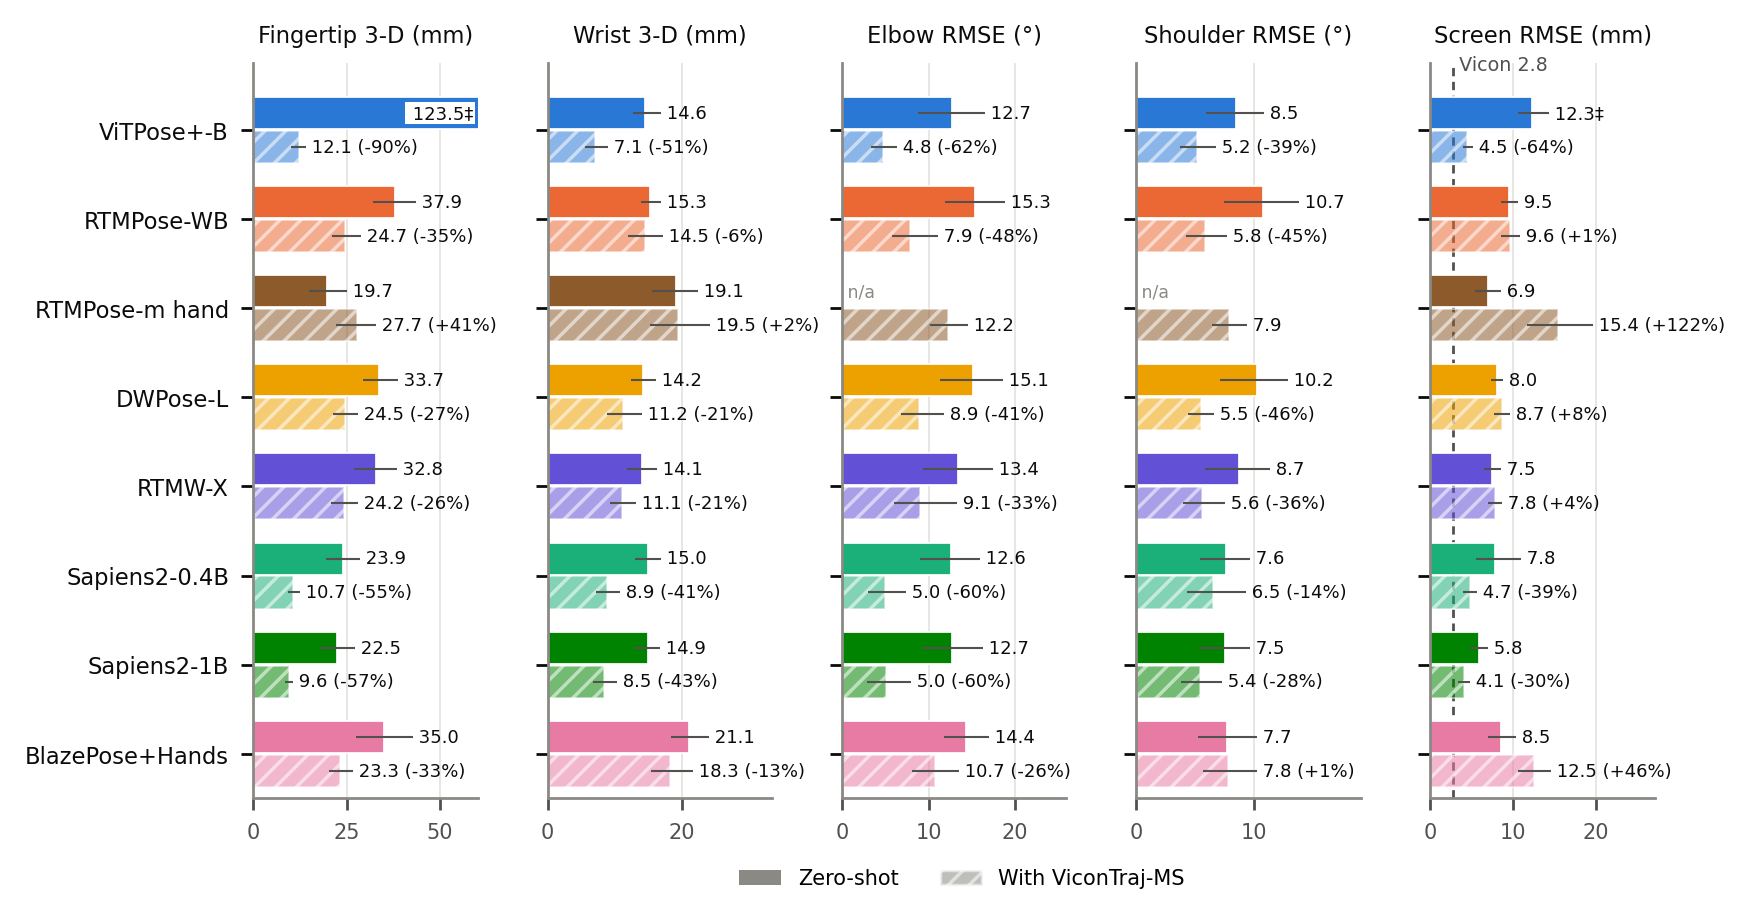
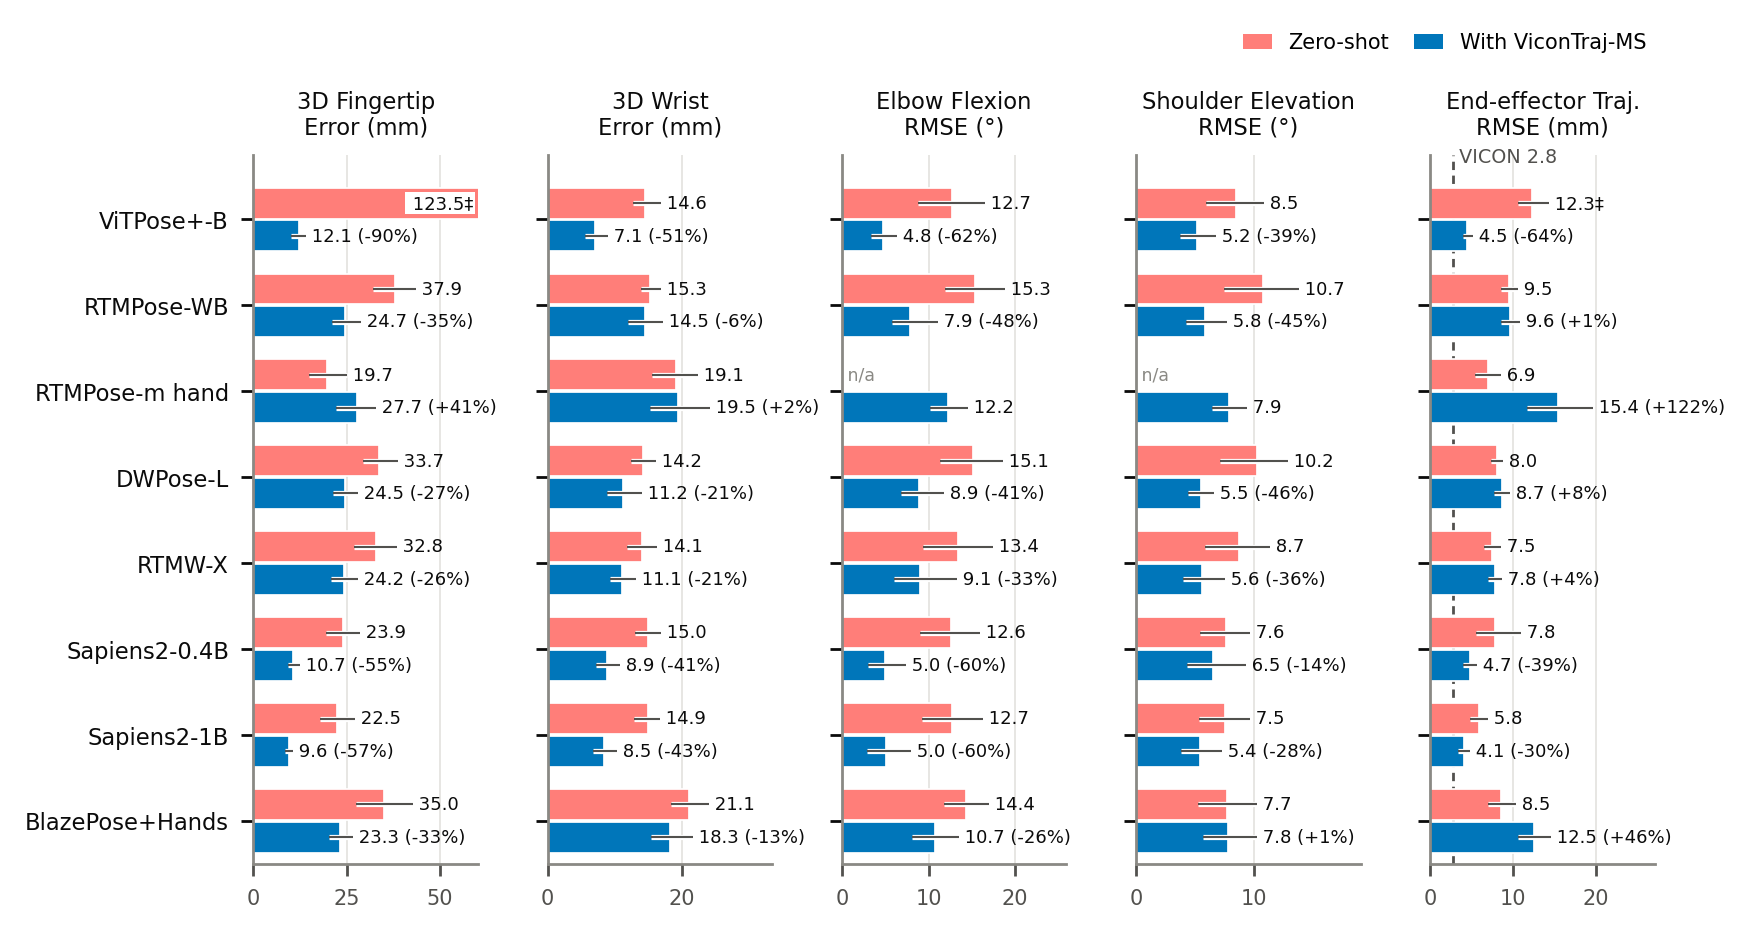
Update the alignment and results figures
Alignment figure: clocks of one VICON recording first, then the residual timing
error, then the trial on the screen; larger text; screen y now points up, as
on the iPad. Results figure: two colours (zero-shot, with ViconTraj-MS),
two-line column titles, legend at the top right.

diff --git a/analysis/make_results.py b/analysis/make_results.py
@@ -29,10 +29,9 @@ DOC = ROOT / "outputs" / "paper"
 TAB, FIG = DOC / "tables", DOC / "fig"
 INK, INK2, INK3, GRID = "#0b0b0b", "#52514e", "#8a8984", "#e4e3df"
 SLOT = ["#2a78d6", "#eb6834", "#1baf7a", "#eda100", "#e87ba4", "#008300"]
-# zero-shot models, and one colour per model
+# zero-shot models; results figure: light red zero-shot, dark blue with ViconTraj-MS
 ZS = ["vitpose_b", "rtmpose_wb", "rtmpose_hand", "dwpose_l", "rtmw_x", "sapiens2_0.4b", "sapiens2_1b", "blazepose"]
-MCOL = {"vitpose_b": "#2a78d6", "rtmpose_wb": "#eb6834", "rtmpose_hand": "#8c5a2b", "dwpose_l": "#eda100", "rtmw_x": "#6250d6",
-        "sapiens2_0.4b": "#1baf7a", "sapiens2_1b": "#008300", "blazepose": "#e87ba4"}
+ZS_COL, FT_COL = "#ff7e79", "#0076ba"
 LAB = {"vitpose_b": "ViTPose+-B", "vitpose_l": "ViTPose+-L", "vitpose_h": "ViTPose+-H", "rtmpose_wb": "RTMPose-WB", "dwpose_l": "DWPose-L",
        "rtmw_x": "RTMW-X", "rtmpose_hand": "RTMPose-m hand", "sapiens2_0.4b": "Sapiens2-0.4B", "sapiens2_1b": "Sapiens2-1B",
        "blazepose": "BlazePose+Hands", "ft_b_head_top": "head, top", "ft_b_head_side": "head, side", "ft_b_head_pooled": "head, both views",
@@ -674,61 +673,64 @@ def fig_zs_ft(q1, q2, ang):
     pairs = [(v, best_with(q2, v)) for v in ZS]
     scr = {v: (None if v.startswith("vitpose") else f"{MODEL_LABEL[v]}, 2 views") for v in ZS}
     scr.update({w: MODEL_LABEL[w] + ", 2 views" for _, w in pairs if w})
-    panels = [("Fingertip 3-D (mm)", q2[q2.joint == "fingertip"].set_index("variant")[["median_mm", "median_ci_lo", "median_ci_hi"]]),
-              ("Wrist 3-D (mm)", q2[q2.joint == "wrist"].set_index("variant")[["median_mm", "median_ci_lo", "median_ci_hi"]]),
-              ("Elbow RMSE (\u00b0)", qa[qa.angle == "elbow_flexion"].set_index("source")[["rmse_deg", "rmse_ci_lo", "rmse_ci_hi"]]),
-              ("Shoulder RMSE (\u00b0)", qa[qa.angle == "shoulder_elevation"].set_index("source")[["rmse_deg", "rmse_ci_lo", "rmse_ci_hi"]]),
-              ("Screen RMSE (mm)", e3.rename(index={v: k for k, v in scr.items() if v})[["rmse_mm", "rmse_ci_lo", "rmse_ci_hi"]])]
+    # (key, title, table); the fingertip and trajectory panels score the wrist of ViTPose+-B zero-shot
+    panels = [("fingertip", "3D Fingertip\nError (mm)", q2[q2.joint == "fingertip"].set_index("variant")[["median_mm", "median_ci_lo", "median_ci_hi"]]),
+              ("wrist", "3D Wrist\nError (mm)", q2[q2.joint == "wrist"].set_index("variant")[["median_mm", "median_ci_lo", "median_ci_hi"]]),
+              ("elbow", "Elbow Flexion\nRMSE (\u00b0)", qa[qa.angle == "elbow_flexion"].set_index("source")[["rmse_deg", "rmse_ci_lo", "rmse_ci_hi"]]),
+              ("shoulder", "Shoulder Elevation\nRMSE (\u00b0)", qa[qa.angle == "shoulder_elevation"].set_index("source")[["rmse_deg", "rmse_ci_lo", "rmse_ci_hi"]]),
+              ("traj", "End-effector Traj.\nRMSE (mm)", e3.rename(index={v: k for k, v in scr.items() if v})[["rmse_mm", "rmse_ci_lo", "rmse_ci_hi"]])]
     shown = [n for pr in pairs for n in pr if n]
     wf = wrist_as_fingertip("vitpose_b")
-    panels[0][1].loc["vitpose_b"] = wf[:3]                                       # wrist as the fingertip, marked
-    panels[4][1].loc["vitpose_b"] = e3.loc["ViTPose+-B wrist, 2 views"][["rmse_mm", "rmse_ci_lo", "rmse_ci_hi"]].values
+    panels[0][2].loc["vitpose_b"] = wf[:3]                                       # wrist as the fingertip, marked
+    panels[4][2].loc["vitpose_b"] = e3.loc["ViTPose+-B wrist, 2 views"][["rmse_mm", "rmse_ci_lo", "rmse_ci_hi"]].values
     macro("zsVitWristAsTipThreeD", f1(wf[0]))
     macro("zsVitWristAsTipCiLo", f1(wf[1]))
     macro("zsVitWristAsTipCiHi", f1(wf[2]))
-    fig, axes = plt.subplots(1, 5, figsize=(7.0, 3.6), sharey=True)
+    fig, axes = plt.subplots(1, 5, figsize=(7.0, 3.65), sharey=True)
     y_zs = {v: 1.0 * i for i, v in enumerate(ZS)}
     vicon_screen = e3.loc["Vicon FIN"]
-    for ax, (title, w) in zip(axes, panels):
+    for ax, (key, title, w) in zip(axes, panels):
         w = w.copy()
         w.columns = ["v", "lo", "hi"]
-        if title.startswith("Screen"):
+        if key == "traj":
             ax.axvline(vicon_screen.rmse_mm, color=INK2, lw=0.8, ls=(0, (3, 2)), zorder=0)
-            ax.text(vicon_screen.rmse_mm, -0.62, f" Vicon {vicon_screen.rmse_mm:.1f}", fontsize=5.5, color=INK2, va="bottom", ha="left")
+            ax.text(vicon_screen.rmse_mm, -0.62, f" VICON {vicon_screen.rmse_mm:.1f}", fontsize=5.5, color=INK2, va="bottom", ha="left")
         for v, b in pairs:
-            for k, (name, dy, alpha, hatch) in enumerate(((v, -0.19, 1.0, None), (b, 0.19, 0.55, "////"))):
+            for k, (name, dy, col) in enumerate(((v, -0.19, ZS_COL), (b, 0.19, FT_COL))):
                 if name is None or name not in w.index or not np.isfinite(w.v.get(name, np.nan)):
-                    if k == 0 and name in w.index or (k == 0 and name not in w.index):
+                    if k == 0:
                         ax.text(0, y_zs[v] + dy, " n/a", va="center", fontsize=5, color=INK3)
                     continue
                 r = w.loc[name]
-                ax.barh(y_zs[v] + dy, r.v, height=0.36, color=MCOL[v], alpha=alpha, hatch=hatch, edgecolor="white", linewidth=0.5)
-                ax.errorbar(r.v, y_zs[v] + dy, xerr=[[r.v - r.lo], [r.hi - r.v]], fmt="none", ecolor=INK2, elinewidth=0.6)
+                ax.barh(y_zs[v] + dy, r.v, height=0.36, color=col, edgecolor="white", linewidth=0.5)
+                for ec, lw in (("white", 1.5), (INK2, 0.6)):                       # white edge: the whisker shows on both colours
+                    ax.errorbar(r.v, y_zs[v] + dy, xerr=[[r.v - r.lo], [r.hi - r.v]], fmt="none", ecolor=ec, elinewidth=lw)
                 lab = f" {r.v:.1f}"
-                if k == 0 and v == "vitpose_b" and title.split()[0] in ("Fingertip", "Screen"):
+                if k == 0 and v == "vitpose_b" and key in ("fingertip", "traj"):
                     lab += "\u2021"                                                     # wrist used as the fingertip
                 if k == 1 and v in w.index and np.isfinite(w.v.get(v, np.nan)):
                     lab += f" ({(r.v / w.v[v] - 1) * 100:+.0f}%)"
                 ax.text(r.hi, y_zs[v] + dy, lab, va="center", fontsize=5.2, color=INK)
-        keep = [n for n in shown if n in w.index and not (n == "vitpose_b" and title.startswith("Fingertip"))]
+        keep = [n for n in shown if n in w.index and not (n == "vitpose_b" and key == "fingertip")]
         xmax = np.nanmax(w.hi.reindex(keep).values) * 1.38
         ax.set_xlim(0, xmax)
         # the wrist-as-fingertip bar runs off the axis
-        if title.startswith("Fingertip") and "vitpose_b" in w.index:
+        if key == "fingertip" and "vitpose_b" in w.index:
             for t in ax.texts:
                 if t.get_text().endswith("\u2021") and t.get_position()[1] == y_zs["vitpose_b"] - 0.19:
                     t.set_x(xmax * 0.98)
                     t.set_ha("right")
                     t.set_bbox(dict(facecolor="white", lw=0, pad=0.5))
-        ax.set_title(title, fontsize=6.5)
+        ax.set_title(title, fontsize=6.5, linespacing=1.15)
         ax.grid(axis="y", visible=False)
         ax.set_ylim(len(ZS) - 0.5, -0.75)
     axes[0].set_yticks([y_zs[v] for v in ZS])
     axes[0].set_yticklabels([FIGLAB[v] for v in ZS])
-    hs = [plt.Rectangle((0, 0), 1, 1, facecolor=INK3, label="Zero-shot"),
-          plt.Rectangle((0, 0), 1, 1, facecolor=INK3, alpha=0.55, hatch="////", edgecolor="white", label="With ViconTraj-MS")]
-    fig.legend(handles=hs, loc="lower center", ncol=2, fontsize=6, bbox_to_anchor=(0.55, -0.01))
-    fig.tight_layout(w_pad=0.5, rect=(0, 0.03, 1, 1))
+    fig.tight_layout(w_pad=0.5, rect=(0, 0, 1, 0.955))
+    hs = [plt.Rectangle((0, 0), 1, 1, facecolor=ZS_COL, label="Zero-shot"),
+          plt.Rectangle((0, 0), 1, 1, facecolor=FT_COL, label="With ViconTraj-MS")]
+    fig.legend(handles=hs, loc="upper right", ncol=2, fontsize=6, bbox_to_anchor=(axes[-1].get_position().x1, 1.0), borderaxespad=0,
+               handlelength=1.4, columnspacing=1.2)                              # top right, flush with the last panel
     save(fig, "results_zs_ft")
 
 

diff --git a/analysis/make_fig_dataset.py b/analysis/make_fig_dataset.py
@@ -1,10 +1,11 @@
 """Bottom row of Figure 1 and Figure 2 (alignment) of the paper, from the benchmark outputs.
 
 fig/streams_moment.pdf: one test trial (--pid study ID, --row aligned_mat_row) at one moment in VICON 3D, the top and
-the side video, with the zero-shot Sapiens2-1B keypoints and their errors. fig/alignment.pdf: (a) the trial on the
-screen, (b) the three clocks of its visit aligned from motion, (c) the residual timing error of every valid trial.
+the side video, with the zero-shot Sapiens2-1B keypoints and their errors. fig/alignment.pdf: (a) the three clocks
+aligned from motion over one VICON recording of the same participant whose four trials are valid in every stream
+(--clock-visit, --clock-round), (b) the residual timing error of every valid trial, (c) the trial on the screen.
 
-    HF_HUB_OFFLINE=1 python analysis/make_fig_dataset.py [--pid XXXXXXX110 --row 14]
+    HF_HUB_OFFLINE=1 python analysis/make_fig_dataset.py [--pid XXXXXXX110 --row 14] [--only-alignment]
 """
 import argparse
 import sys
@@ -49,14 +50,18 @@ def camera_view(P):
 
 def residual_panel(ax, m):
     bins = np.arange(0, 105, 5)
-    for i, (col, flag, lab) in enumerate((("vicon_align_err_s", "vicon_valid", "Vicon–game"), ("top_align_err_s", "top_valid", "top video–game"),
+    for i, (col, flag, lab) in enumerate((("vicon_align_err_s", "vicon_valid", "VICON–game"), ("top_align_err_s", "top_valid", "top video–game"),
                                           ("side_align_err_s", "side_valid", "side video–game"))):
         e = np.clip(m.loc[m[flag], col].dropna() * 1000, 0, 100)
-        ax.hist(e, bins=bins, histtype="step", lw=1.3, color=SLOT[i], label=f"{lab} (median {np.median(e):.0f} ms)")
+        ax.hist(e, bins=bins, histtype="step", lw=1.3, color=SLOT[i], label=f"{lab} ({np.median(e):.0f} ms)")
     ax.set_xlabel("residual timing error of a trial (ms)")
     ax.set_ylabel("trials")
-    ax.legend(loc="upper right", handlelength=1.4)
+    ax.legend(loc="upper right", handlelength=1.4, title="median", title_fontsize=plt.rcParams["legend.fontsize"],
+              borderaxespad=0.2)
     ax.set_xlim(0, 100)
+    ax.set_ylim(0, 320)                                  # room above the bars for the legend
+    ax.set_yticks(range(0, 201, 50))
+    ax.spines["left"].set_bounds(0, 200)
 
 
 def fig_moment(r, cams, blur, moment=0.5):
@@ -102,24 +107,38 @@ def pd_round(rec):
     return [{k: (round(v, 1) if isinstance(v, float) else v) for k, v in d.items()} for d in rec]
 
 
-def fig_alignment(r, m, cams):
-    fig = plt.figure(figsize=(7.1, 2.35))
-    gs = fig.add_gridspec(1, 3, left=0.045, right=0.99, top=0.88, bottom=0.2, wspace=0.3, width_ratios=(0.9, 1.75, 1.0))
-    ax = fig.add_subplot(gs[0, 0])
-    t, xy, paths, scale = screen_paths(r, cams, MODEL)
-    draw_screen(ax, t, xy, paths, scale, r, video_name=f"video ({MODEL_LABEL[MODEL]})")
-    ax.legend(loc="upper left", bbox_to_anchor=(-0.08, -0.3), ncol=1, handlelength=1.2, labelspacing=0.2)
-    ax.set_title("a", loc="left", fontweight="bold", fontsize=8)
-    ax = fig.add_subplot(gs[0, 1])
-    trial_rows = m[(m.pid == r.pid) & (m.visit == r.visit) & (m.trial_in_visit == r.trial_in_visit)].aligned_mat_row.astype(int).tolist()
-    draw_alignment(ax, *alignment_traces(r.pid, int(r.visit), "top", trial_rows))
-    ax.set_title("b", loc="left", fontweight="bold", fontsize=8)
-    ax = fig.add_subplot(gs[0, 2])
-    residual_panel(ax, m)
-    ax.set_title("c", loc="left", fontweight="bold", fontsize=8)
-    for ext in ("pdf", "png"):
-        fig.savefig(FIG / f"alignment.{ext}", dpi=250, bbox_inches="tight")
-    plt.close(fig)
+FIG2_FONTS = {"font.size": 8, "axes.labelsize": 8, "xtick.labelsize": 7.5, "ytick.labelsize": 7.5, "legend.fontsize": 7.5}
+
+
+def fig_alignment(r, m, cams, clock_visit, clock_round):
+    """(a) the three clocks over VICON recording clock_round of visit clock_visit, (b) the residual timing error of every
+    valid trial, (c) the trial r on the screen."""
+    with plt.rc_context(FIG2_FONTS):
+        fig = plt.figure(figsize=(7.1, 2.75))
+        gs = fig.add_gridspec(1, 3, left=0.045, right=0.99, top=0.88, bottom=0.2, wspace=0.34, width_ratios=(1.6, 1.1, 0.9))
+        ax_clock = fig.add_subplot(gs[0, 0])
+        rows = m[(m.pid == r.pid) & (m.visit == clock_visit) & (m.trial_in_visit == clock_round)]
+        draw_alignment(ax_clock, *alignment_traces(r.pid, clock_visit, "top", rows.aligned_mat_row.astype(int).tolist()),
+                       label_fs=7.5, short=True)
+        ax_res = fig.add_subplot(gs[0, 1])
+        residual_panel(ax_res, m)
+        ax_scr = fig.add_subplot(gs[0, 2])
+        t, xy, paths, scale = screen_paths(r, cams, MODEL)
+        draw_screen(ax_scr, t, xy, paths, scale, r, video_name=f"video ({MODEL_LABEL[MODEL]})")
+        ax_scr.set_anchor("S")                           # plot at the bottom of its cell, legend in the space above
+        fig.canvas.draw()
+        pos = ax_scr.get_position()
+        ax_scr.legend(loc="lower left", bbox_to_anchor=(pos.x0 - 0.045, pos.y1 + 0.05), bbox_transform=fig.transFigure,
+                      ncol=1, handlelength=1.2, labelspacing=0.2, borderaxespad=0)
+        # panel letters on one line above the panels: (a) at its axes, (b) and (c) at the left edge of the panel
+        fig.canvas.draw()
+        to_fig = fig.transFigure.inverted()
+        left = lambda ax: to_fig.transform(ax.get_tightbbox(fig.canvas.get_renderer()))[0, 0]   # noqa: E731
+        for ax, lab, x in ((ax_clock, "a", ax_clock.get_position().x0), (ax_res, "b", left(ax_res)), (ax_scr, "c", left(ax_scr))):
+            fig.text(x, 0.905, lab, fontweight="bold", fontsize=9, ha="left", va="bottom")
+        for ext in ("pdf", "png"):
+            fig.savefig(FIG / f"alignment.{ext}", dpi=250, bbox_inches="tight")
+        plt.close(fig)
     print("wrote", FIG / "alignment.pdf")
 
 
@@ -129,16 +148,19 @@ def main():
     ap.add_argument("--row", type=int, default=14, help="aligned_mat_row of the trial")
     ap.add_argument("--moment", type=float, default=0.5, help="fraction of the trial for fig/streams_moment.pdf")
     ap.add_argument("--only-moment", action="store_true", help="write only fig/streams_moment.pdf")
+    ap.add_argument("--only-alignment", action="store_true", help="write only fig/alignment.pdf")
+    ap.add_argument("--clock-visit", type=int, default=2, help="visit of the VICON recording in panel (a) of fig/alignment.pdf")
+    ap.add_argument("--clock-round", type=int, default=3, help="VICON recording (round of trials) of that visit in panel (a)")
     args = ap.parse_args()
     FIG.mkdir(parents=True, exist_ok=True)
     style()
     m = manifest()
     r = m[(m.pid == args.pid) & (m.aligned_mat_row == args.row)].iloc[0]
     cams, blur = cameras(), FaceBlur()
-    fig_moment(r, cams, blur, args.moment)
-    if args.only_moment:
-        return
-    fig_alignment(r, m, cams)
+    if not args.only_alignment:
+        fig_moment(r, cams, blur, args.moment)
+    if not args.only_moment:
+        fig_alignment(r, m, cams, args.clock_visit, args.clock_round)
 
 
 if __name__ == "__main__":

diff --git a/analysis/alignment_panels.py b/analysis/alignment_panels.py
@@ -68,12 +68,12 @@ def screen_paths(r, cams, model=FT):
 
 
 def draw_screen(ax, t, xy, paths, scale, r, video_name="video (fine-tuned)"):
-    g = xy / scale
-    ax.plot(g[:, 0], -g[:, 1], color=INK, lw=2.0, label="game trajectory", solid_capstyle="round")
-    for lab, col, name in (("Vicon", SLOT[2], "Vicon markers"), ("ft", SLOT[4], video_name)):
+    g = xy / scale                                   # game y points up (origin at the screen centre), as the child sees it
+    ax.plot(g[:, 0], g[:, 1], color=INK, lw=2.0, label="game trajectory", solid_capstyle="round")
+    for lab, col, name in (("Vicon", SLOT[2], "VICON markers"), ("ft", SLOT[4], video_name)):
         p = paths[lab] / scale
         e = np.sqrt(np.nanmean(np.sum((p - g) ** 2, 1)))
-        ax.plot(p[:, 0], -p[:, 1], color=col, lw=1.0, label=f"{name}: {e:.1f} mm")
+        ax.plot(p[:, 0], p[:, 1], color=col, lw=1.0, label=f"{name}: {e:.1f} mm")
     ax.set_aspect("equal")
     ax.set_xlabel("screen x (mm)")
     ax.set_ylabel("screen y (mm)")
@@ -129,7 +129,8 @@ def alignment_traces(pid, visit, view, win_paths):
     return tg, obj, fin, F[:, best], sel, (a, b), segs, corr[best]
 
 
-def draw_alignment(ax, tg, obj, fin, flow, sel, win, segs, r_best):
+def draw_alignment(ax, tg, obj, fin, flow, sel, win, segs, r_best, label_fs=5.5, short=False):
+    """The three speed traces on the visit clock, each with its label above it; short: shorter labels, wider spacing."""
     a, b = win
     m = (tg >= a) & (tg <= b)
     for s0, s1 in segs:
@@ -139,16 +140,21 @@ def draw_alignment(ax, tg, obj, fin, flow, sel, win, segs, r_best):
     def z(x):
         v = x[sel & ~np.isnan(x)]
         return (x - np.nanmean(v)) / (np.nanstd(v) + 1e-9)
-    ax.plot(tg[m], np.clip(z(obj), -2, 3.0)[m] + 9.2, color=INK, lw=0.7)
-    ax.plot(tg[m], np.clip(z(fin), -2, 3.0)[m] + 4.6, color=SLOT[2], lw=0.7)
-    ax.plot(tg[m], np.clip(z(flow), -2, 3.0)[m], color=SLOT[0], lw=0.7)
-    for y, col, lab in ((9.2, INK, "Game trajectory: object speed"), (4.6, SLOT[2], "Vicon: LFIN / RFIN marker speed"),
-                        (0, SLOT[0], f"Top-view video: optical flow, best grid cell (r = {r_best:.2f})")):
-        ax.text(a + 0.4, y + 2.75, lab, color=col, fontsize=5.5, va="center", ha="left",
+    off, dy = ((11.0, 5.5, 0.0), 3.6) if short else ((9.2, 4.6, 0.0), 2.75)   # trace offsets; label height above its trace
+    ax.plot(tg[m], np.clip(z(obj), -2, 3.0)[m] + off[0], color=INK, lw=0.7)
+    ax.plot(tg[m], np.clip(z(fin), -2, 3.0)[m] + off[1], color=SLOT[2], lw=0.7)
+    ax.plot(tg[m], np.clip(z(flow), -2, 3.0)[m] + off[2], color=SLOT[0], lw=0.7)
+    if short:
+        labels = ("Game: object speed", "VICON: fingertip marker speed", f"Top video: optical flow (r = {r_best:.2f})")
+    else:
+        labels = ("Game trajectory: object speed", "VICON: LFIN / RFIN marker speed",
+                  f"Top-view video: optical flow, best grid cell (r = {r_best:.2f})")
+    for y, col, lab in zip(off, (INK, SLOT[2], SLOT[0]), labels):
+        ax.text(a + 0.4, y + dy, lab, color=col, fontsize=label_fs, va="center", ha="left",
                 bbox=dict(facecolor="white", alpha=0.85, lw=0, pad=1.2))
     ax.set_yticks([])
     ax.set_xlim(a, b)
-    ax.set_ylim(-2.3, 13.0)
-    ax.set_xlabel("game clock (s into the visit); shaded: movement trials")
+    ax.set_ylim(-2.3, 15.6 if short else 13.0)
+    ax.set_xlabel("game clock (s into the visit)" if short else "game clock (s into the visit); shaded: movement trials")
     ax.grid(axis="y", visible=False)
     ax.spines["left"].set_visible(False)

diff --git a/scripts/render_demo.py b/scripts/render_demo.py
@@ -26,7 +26,7 @@ DERIV = "derivatives/vikitraj"
 JOINTS = ("shoulder", "elbow", "wrist", "hand", "fingertip")         # drawn as one chain in this order
 JOINTS_3D = ("shoulder", "elbow", "wrist", "fingertip")             # joints of tracks3d
 BEST = ("ft_sapiens2_1b_head", "Sapiens2-1B + ViconTraj-MS", "#008300")
-MODELS = [  # zero-shot output, name, colour (MCOL of analysis/make_results.py), ViconTraj-MS output
+MODELS = [  # zero-shot output, name, colour, ViconTraj-MS output
     ("vitpose_b", "ViTPose+-B", "#2a78d6", "ft_b_full_pooled_traj"),
     ("rtmpose_wb", "RTMPose-WB", "#eb6834", "seq_rtmpose_wb"),
     ("rtmpose_hand", "RTMPose-m hand", "#8c5a2b", "seq_rtmpose_hand"),
